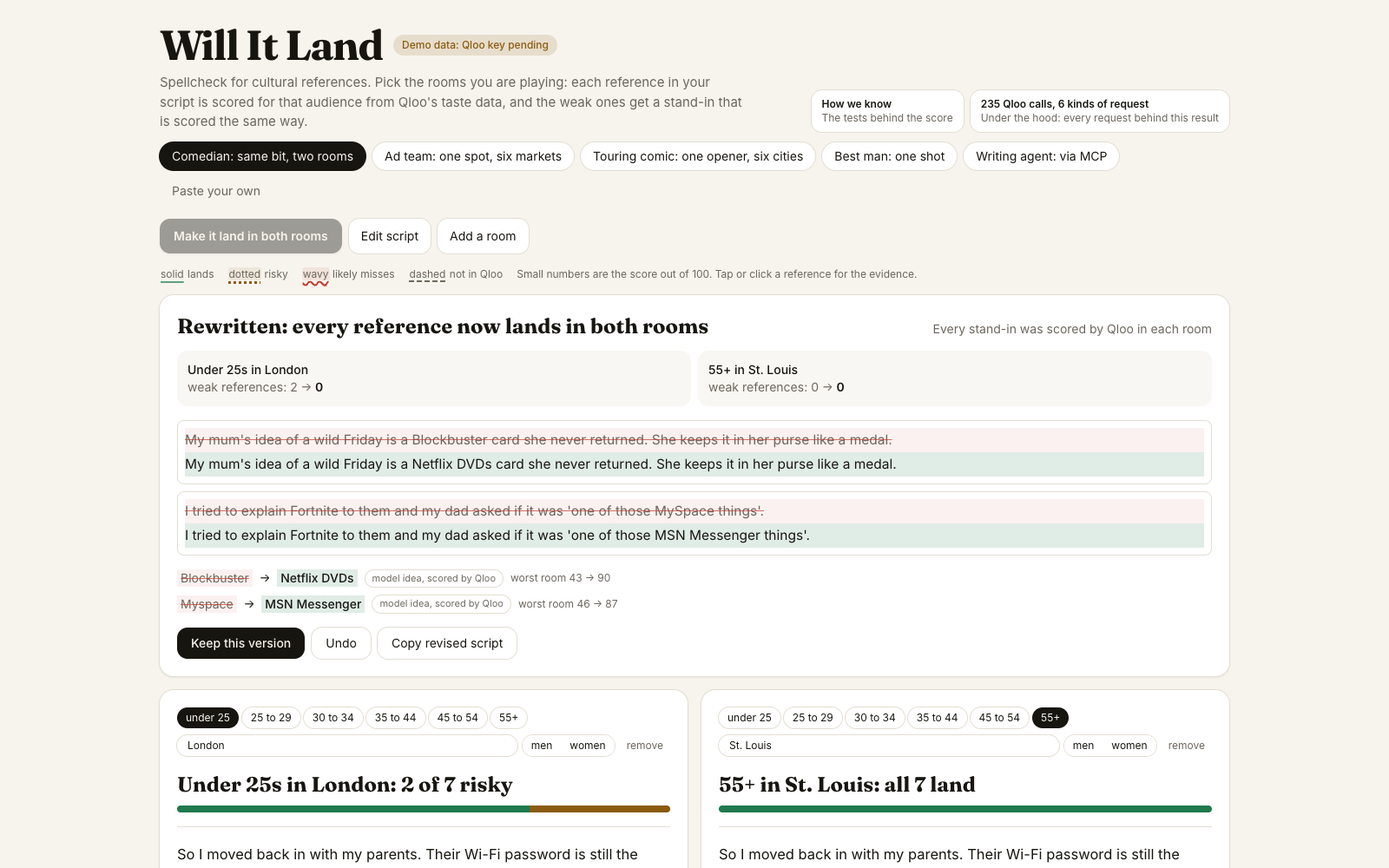
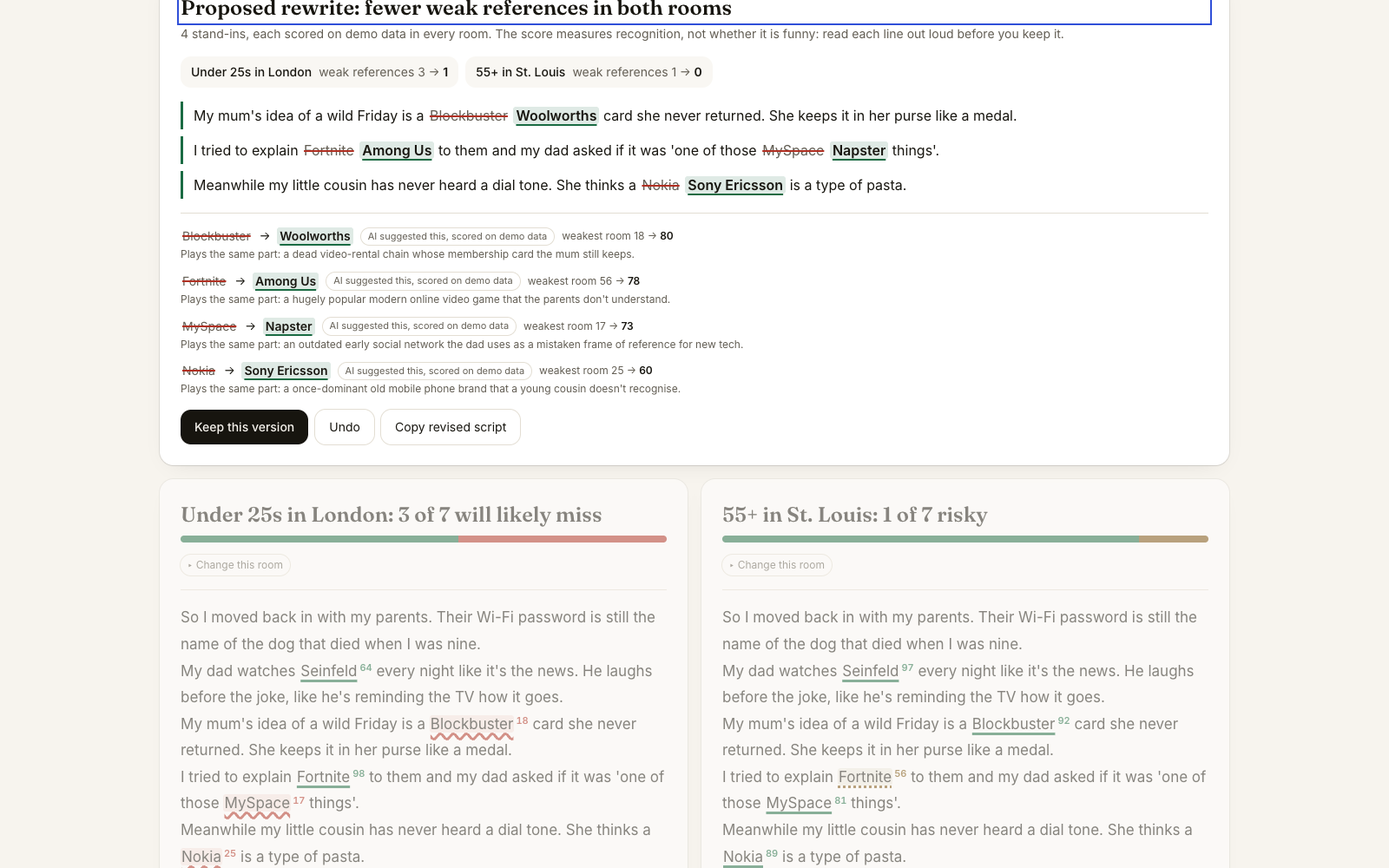
Devpost and README: status line, buyer and workflow table, request-to-result walk-through, known limitations, no overclaims; runbook og image step

Changed region(s): [[0.0938, 0.0, 0.875, 1.0], [0.6875, 0.372, 0.875, 0.403]]

diff --git a/README.md b/README.md
@@ -1,25 +1,26 @@
 # Will It Land
 
-Spellcheck for cultural references. Paste a stand-up bit, an ad script, a toast, or a speech. Pick the rooms you are playing. A room is an age band, optionally men or women, and a city or country. Will It Land scores every reference for that audience using Qloo taste data. Weak references get a stand-in. The app scores the stand-in the same way and rewrites the line.
+Spellcheck for cultural references. Paste a stand-up bit, an ad script, a toast or a speech. Pick the rooms you are playing (an age band, optionally men or women, a city or country). Will It Land scores every reference for that audience using Qloo taste data. Weak references get a stand-in, scored the same way. The app then rewrites the line.
 
-Live app: https://m-simakhov--will-it-land-web.us-east.modal.run (built for the Qloo Agentic Hackathon, October 2026). Status while the hackathon API key is pending: the live app runs on demo data and says so in its header.
+Live app: https://m-simakhov--will-it-land-web.us-east.modal.run. I built this for the Qloo Agentic Hackathon, October 2026. Status while the hackathon API key is pending: the live app runs on demo data and says so in its header.
 
 ## What it does
-- Two rooms side by side: the app marks the same script like a spellchecker for each room. Marks include a red wavy underline for likely misses, amber dotted for risky, green for lands, and grey dashed for not in Qloo. A headline per room reads like "Under 25s in London: 2 of 7 risky".
+- Two rooms side by side. The app marks the same script like a spellchecker for each room. A wavy underline means likely misses. A dotted underline means risky. A solid underline means it lands. A dashed underline means it is not in Qloo. Each room has a headline, such as "Under 25s in London: 3 of 7 will likely miss". One line names the biggest split between the rooms.
+- Four examples: a comedian's bit in two rooms, a touring comic's opener in six cities, an ad in six markets, and a best man's toast for two tables.
 - Up to six rooms as a grid. A "lands everywhere" column next to each reference takes its worst room.
-- "Make it land in both rooms" or "in every room": the agent finds stand-ins for each weak reference. It scores every candidate in every room. It picks the one whose worst room scores best and rewrites the line. The app re-scores the whole script and keeps the rewrite only if the rooms improved. Changes appear as tracked changes with a badge per stand-in. Badges say "found in Qloo's graph" or "model idea, scored by Qloo".
-- An evidence card for every mark: the card shows the score, a plain sentence, and a breakdown of the score. The breakdown covers how widely known the reference is, this age band, and this place. The card also shows the age profile from Qloo and what a language model guessed without data.
-- "Scored by: Qloo data or AI guess alone" repaints the page with the model's unaided guesses. This makes the difference visible. The app hides this button while it runs on demo data.
-- "Under the hood" lists every Qloo request behind the result.
-- An MCP server lets any writing agent check its own references before it finishes a draft.
+- "Make it land in both rooms" (or "in every room"). For each weak reference, the agent finds stand-ins. It scores every candidate in every room. It picks the one whose weakest room scores best. It rewrites the line and re-scores the whole script. It keeps the rewrite only if no room gets worse. Changes appear as word-level suggestions inside each line. These show the part each reference plays and a badge for where each stand-in came from.
+- An evidence card for every mark. This shows the score, a plain sentence, and the parts of the score. These parts are how well known it is, fit with this age band, and strength in this place. The card also shows the age profile and the same reference in every other room.
+- "Scored by: Qloo data or AI guess alone" repaints the page with the model's unaided guesses. This makes the difference visible. The app hides this option while it runs on demo data.
+- "Under the hood" lists every request behind the result. You can share any result as a link.
+- An MCP server. Any writing agent can check its own references before it finishes a draft.
 
 ## How the agent works
-1. A language model finds the cultural references in the text. It names the role each one plays in its line, for example "a dead video-rental chain".
-2. The app resolves each reference to a Qloo entity with /search. When several entities share a name, the model picks one from the line's context.
-3. Qloo's demographics insights show how much each age band and gender over-indexes or under-indexes on each entity. The /v2/trending endpoint gives the six-month direction. The app shows this direction but does not score it.
+1. A language model finds the cultural references in the text. It names the role each one plays in its line (for example "a dead video-rental chain").
+2. The agent resolves each reference to a Qloo entity with /search. When several entities share a name, the model picks one from the line's context.
+3. For each entity, Qloo demographics insights show how much each age band and gender over-indexes or under-indexes on it. The /v2/trending endpoint gives its six-month direction. The app shows this direction but does not score it.
 4. For each room, one insights call per entity type ranks the references in that place against eight fixed anchor entities. This makes the place term comparable across calls.
-5. The score combines how widely known the entity is, which is Qloo popularity, with the room's age band, gender, and place. The formula is in server/scoring.py.
-6. Stand-ins come from two sources. The first is Qloo itself. The app uses the reference's characterising tags, the room's demographics, and the place. It applies a popularity floor. The model filters the results for role fit. The second source is the model's own role-based ideas. The app resolves each idea to a real Qloo entity. The agent scores every candidate the same way as the original in the same calls.
+5. The score combines how widely known the entity is (Qloo popularity) with the room's age band, gender, and place. The formula is in server/scoring.py.
+6. Stand-ins come from two sources. The first is Qloo itself. The agent uses the reference's characterising tags, the room's demographics, and the place. It applies a popularity floor and filters the results by role fit using the model. The second source is the model's own role-based ideas. The agent resolves each idea to a real Qloo entity. It scores every candidate the same way as the original, in the same calls.
 
 ## Qloo endpoints used
 | purpose | Qloo call |
@@ -32,17 +33,26 @@ Live app: https://m-simakhov--will-it-land-web.us-east.modal.run (built for the 
 | six-month direction (display only) | /v2/trending |
 
 ## How we test it
-We fixed the method before any real data arrived and committed it in eval/PREREG.md. We publish results whatever they say.
-- Who has heard of it, by generation: YouGov Ratings publishes the share of US millennials, Gen X, and baby boomers who have heard of thousands of shows, films, artists, brands, people, and podcasts. The eval/kill_test.py script compares the Qloo grounded score with a language model's unaided guess on about 300 of them. We sampled these from the 3,428 distinct entities in eval/data/yougov_fame.csv. The script compares them overall, within each entity type, and on the millennial minus boomer gap. Result: not measured yet.
+I fixed the method before any real data arrived. I committed it in eval/PREREG.md. I publish results whatever they say.
+- Who has heard of it, by generation: YouGov Ratings publishes the share of US millennials, Gen X and baby boomers who have heard of thousands of shows, films, artists, brands, people and podcasts. The eval/kill_test.py script compares the Qloo-grounded score with a language model's unaided guess on about 300 of them. It samples these from the 3,428 distinct entities in eval/data/yougov_fame.csv. It tests them overall, within each entity type, and on the millennial-minus-boomer gap. Result: not measured yet.
 - What under-25s recognise: YouGov has no under-25 figures. The app hosts an anonymous survey at /survey. It asks for age band, city, and "have you heard of this?" for 49 items. Result: not measured yet.
-- Whether place means anything: We score 20 regional brands and shows at home and far away in eval/location_sanity.py. If place does not separate them, we drop it from the score and the place box disappears from the app. Result: not measured yet.
-- AI writing for a named audience: Claude and Gemini each wrote 18 short pieces for a named room in eval/data/ai_texts.json. We report the share of their references that miss that room only if the tests above validate the score.
+- Whether place means anything: 20 regional brands and shows scored at home and far away (eval/location_sanity.py). If place does not separate them, the app drops it from the score. The place box then disappears from the app. Result: not measured yet.
+- AI writing for a named audience: Claude and Gemini each wrote 18 short pieces for a named room (eval/data/ai_texts.json). I report the share of their references that miss that room only if the tests above validate the score.
+
+## From request to result (one reference)
+1. The model reads "My mum's idea of a wild Friday is a Blockbuster card she never returned". It returns the reference "Blockbuster", type brand, part "a dead video-rental chain".
+2. The /search endpoint with query Blockbuster and type brand returns the entity and its popularity. If several entities share the name, the model picks one from the line.
+3. The /v2/insights endpoint with urn:demographics returns the over-indexing or under-indexing of each age band.
+4. For the room "under 25, London", /v2/insights ranks the brand references in London against eight anchor brands.
+5. The score combines popularity with the age band and place terms. The evidence card shows each part.
+6. If the reference is weak in any room, the agent gathers stand-ins. It scores each one in every room the same way.
 
 ## What the score means, and what it does not
 - "Likely to land" means likely to be recognised and liked by that audience. It is an estimate for a group. It is never a statement about one person. It never claims a joke is funny.
-- Until we run the tests above, the score uses hand set starting values. These values are not calibrated against any data, and the app says so. The YouGov test covers US adults in three generations, roughly 30 and over. Our own survey covers under-25s.
-- Qloo age bands are under 25, 25 to 29, 30 to 34, 35 to 44, 45 to 54, and 55+.
-- References Qloo has no entity for, like slang, memes, or very local things, are shown as "not in Qloo" and not scored.
+- Until the tests above run, the score uses hand-set starting values. These are not calibrated against any data. The app says so. The YouGov test covers US adults in three generations (roughly 30 and over). Our own survey covers under-25s.
+- Qloo age bands are under 25, 25 to 29, 30 to 34, 35 to 44, 45 to 54 and 55+.
+- References Qloo has no entity for (slang, memes, very local things) show as "not in Qloo". The app does not score them.
+- A stand-in can be well known in every room and still break the joke. The writer decides.
 - The text goes to a language model. The model finds the references. The app sends only reference names and room settings to Qloo. It never sends the text.
 
 ## Run it
@@ -68,13 +78,13 @@ JSON config (.mcp.json and similar clients):
 Local stdio: `.venv/bin/python -m server.mcp_server`. Tools: check_references, check_matrix, localise, localise_for_all, audience_options.
 
 ## Tests
-`.venv/bin/python -m pytest -q` runs offline against a fake Qloo with injected faults like rate limits, timeouts, and empty answers. It uses a scripted model. `python -m tools.probe` checks every field the code reads from the real Qloo API.
+The command `.venv/bin/python -m pytest -q` runs offline against a fake Qloo. This fake API injects faults like rate limits, timeouts, and empty answers. It uses a scripted model. The command `python -m tools.probe` checks every field the code reads from the real Qloo API.
 
 ## Layout
-- server/: FastAPI app, Qloo client with cache and call ledger, the agent pipeline, the score model, MCP server, and Modal deployment.
-- web/: React, Vite, and Tailwind interface.
-- eval/: YouGov ground truth, benchmark, calibration, location check, split finder, survey report, and AI taste audit.
-- tools/: key-day probe, cache prewarm, screenshots, and prose rendering.
+- server/: FastAPI app, Qloo client with cache and call ledger, the agent pipeline, the score model, MCP server, Modal deployment
+- web/: React, Vite and Tailwind interface
+- eval/: YouGov ground truth, benchmark, calibration, location check, split finder, survey report, AI taste audit
+- tools/: key-day probe, cache prewarm, screenshots, prose rendering
 
 ## Licence
-MIT. The app fetches Qloo data live and caches it privately. None of this data is in this repository. YouGov figures in eval/data are public survey aggregates published on yougov.com.
+MIT. The app fetches Qloo data live and caches it privately. None of it is in this repository. YouGov figures in eval/data are public survey aggregates published on yougov.com.

diff --git a/docs/DEVPOST.md b/docs/DEVPOST.md
@@ -1,31 +1,72 @@
 # Will It Land
 
 ## Tagline
-Spellcheck for cultural references: it scores every reference in your script for the room you are playing using Qloo and swaps the weak ones.
+Spellcheck for cultural references. It shows which references in your script will land with the room you are playing. It swaps weak references for stand-ins that work in every room.
+
+## Status
+Until the hackathon Qloo key arrives, the live app runs on clearly labelled demo data. The numbers on screen are placeholders. The pipeline, the requests it makes and the interface are the real product. (Replace this paragraph with "Runs on live Qloo data" once true.)
 
 ## Inspiration
-Language models produce average references for a joke, an ad line or a wedding toast. They return the same handful of shows, artists and brands for any audience. Writers never perform for the average room. A comedian plays 22-year-olds in one city on Friday and a dinner of 55-year-olds in another on Monday. An ad team ships one script to several markets. A best man gets one audience and one shot. None of them has data on which references a specific audience actually over-indexes on. They do not know which stand-in plays the same part for that audience. Qloo has that data.
+Writers never perform for the average room. A touring comic plays 25-year-olds in Leeds on Friday and in Atlanta on Monday. An ad team ships one script into six markets. A best man speaks to two tables: his friends and the grandparents. Each of them checks references by gut, or asks a language model. Language models tend to reach for the same handful of shows, artists and brands whatever the audience. None of them has data on which references a specific audience knows and likes. They also lack data on which stand-in would play the same part for them. Qloo has that data.
 
 ## What it does
-Paste a script and pick the rooms: an age band, optionally men or women, a city or country. Will It Land marks every cultural reference like a spellchecker for each room. Red wavy lines mean likely misses. Amber dotted lines mean risky references. Green means the reference lands. The app provides a headline per room. Clicking "Make it land in both rooms" runs the agent. For each weak reference, the agent gathers stand-ins from the Qloo graph and from the model. It scores every candidate in every room with Qloo. It picks the candidate whose worst room scores best. It rewrites the line and re-scores the whole script. It keeps the rewrite only if the rooms improved. Each change shows as a tracked change with a badge indicating where the stand-in came from. Up to six rooms fit in a grid with a "lands everywhere" column. One example takes a touring comic's opener to six cities. Every mark opens an evidence card. This card shows the score, its breakdown (how widely known, this age band, this place), the age profile from Qloo and what a language model guessed without data. An "Under the hood" section lists every Qloo request behind the result. The app is also an MCP server (check_references, check_matrix, localise, localise_for_all, audience_options). A writing agent can check its own references before it finishes a draft. The script goes to the language model. Only reference names and room settings go to Qloo.
+Paste a script and pick the rooms. A room is an age band, optionally men or women, and a city or country. Will It Land marks every cultural reference like a spellchecker, separately for each room. A solid underline lands, a dotted underline is risky, a wavy underline will likely miss, and a dashed underline is not in Qloo. Each room gets a headline ("Under 25s in London: 3 of 7 will likely miss"). The page names the biggest split. This is the same reference scoring very differently in two rooms.
+
+One click, "Make it land in both rooms", runs the agent. For each weak reference, it gathers stand-ins from Qloo's taste graph and from the language model. It scores every candidate in every room. It picks the one whose weakest room scores best. It rewrites the line and re-scores the whole script. It keeps the rewrite only if no room gets worse. The result appears as document-style suggestions inside each line. It shows the part each reference plays ("a dead video-rental chain") and where each stand-in came from. It states plainly that the score measures recognition, not whether the line is funny.
+
+Up to six rooms fit in a grid with a "lands everywhere" column. Every mark opens an evidence card. The card shows the score, its parts (how well known, fit with the age band, strength in the place), the age profile, and the same reference in every other room. "Under the hood" lists every request behind a result. Any result can be shared as a link. It is also an MCP server with five tools (check_references, check_matrix, localise, localise_for_all, audience_options). A writing agent can check its own references before it finishes a draft.
+
+## Who uses it, and when
+| who | when |
+|---|---|
+| touring comic | before each date, for that city |
+| ad and localisation teams | before each market signs off a script |
+| speechwriter or best man | once, before the day |
+| a writing agent, through MCP | on every draft, automatically |
 
 ## How I built it
-The server uses Python and FastAPI. The browser uses React, Vite and Tailwind. Modal hosts the app with one warm container and a persistent cache. The agent uses Claude for language steps (finding references, naming each one's role, choosing between entities with the same name, rewriting lines). An adapter can switch the model to Gemini. The Qloo integration uses several endpoints. It uses /search to resolve names. It uses /v2/insights with demographics for age and gender affinity. It uses /v2/insights to rank each room's references in a place against eight fixed anchors. It uses /v2/insights with tags for the tags that define a reference. It uses /v2/insights with tags plus the room's demographics and place to find stand-ins the room over-indexes on. It uses /v2/trending for direction (shown, not scored). The score is a small logistic model in server/scoring.py. The MCP server uses the official Python SDK over stdio and streamable HTTP.
+The server uses Python and FastAPI. The browser uses React, Vite and Tailwind. Modal hosts the app with one warm container and a persistent cache. The language steps find references, name each one's part in the line, choose between entities with the same name, and rewrite lines. These steps use Claude through an adapter that can switch to Gemini. The value is in the data, not the model.
+
+Qloo calls:
+- /search resolves each reference to an entity and gives its popularity.
+- /v2/insights with urn:demographics gives how much each age band and gender over-indexes on it.
+- /v2/insights with filter.results.entities and signal.location.query ranks the references in each place against eight fixed anchor entities. Place scores compare across calls.
+- /v2/insights with urn:tag gives the tags that characterise a weak reference.
+- /v2/insights with those tags plus the room's age and place finds stand-ins the room over-indexes on.
+- /v2/trending gives a six-month direction. The card shows this direction, and the app never scores it.
+
+The score is a small logistic model in server/scoring.py.
+
+## From request to result (one reference)
+1. The model reads "My mum's idea of a wild Friday is a Blockbuster card she never returned". It returns the reference "Blockbuster", type brand, part "a dead video-rental chain".
+2. /search with query Blockbuster and type brand returns the entity and its popularity. If several entities share the name, the model picks one from the line.
+3. /v2/insights with urn:demographics and that entity returns the over-indexing or under-indexing of each age band.
+4. For the room "under 25, London", /v2/insights ranks the brand references in London against eight anchor brands.
+5. The score combines popularity with the age band and place terms. The evidence card shows each part.
+6. If the reference is weak in any room, the app gathers stand-ins and scores each one in every room the same way.
+Only reference names and room settings go to Qloo. The script never goes to Qloo.
 
 ## How I test it
-The test method was fixed in eval/PREREG.md before any real data arrived. It compares the Qloo-grounded score with a language model's unaided guess against outside ground truth. This ground truth includes YouGov's share of each US generation who have heard of about 300 shows, films, artists, brands, people and podcasts. It includes an anonymous survey of what under-25s recognise, because YouGov has no under-25 figures. It also includes a check that place separates 20 regional brands and shows at home and far away. Results are not measured yet. Until then, the score runs on hand-set starting values. It is not calibrated against any data, and the app states this.
+The method was fixed in eval/PREREG.md before any real data arrived. Results are published whatever they say. It compares the Qloo-grounded score with a language model's unaided guess against outside ground truth. The ground truth includes YouGov's share of each US generation who have heard of about 300 shows, films, artists, brands, people and podcasts. It includes an anonymous survey of what under-25s recognise. YouGov has no under-25 figures. It includes a check that place separates 20 regional brands and shows at home and far away. Results: not measured yet. Until then, the score runs on starting weights set by hand. The app says so.
+
+## Known limitations
+- The score is an estimate for a group, never a statement about one person. It does not judge whether a joke is funny.
+- Until the tests above run, the weights are set by hand and are not calibrated.
+- The YouGov test covers US adults in three generations, roughly 30 and over. Under-25s are covered only by the survey.
+- References Qloo has no entity for (slang, memes, very local things) are marked "not in Qloo" and not scored.
+- A stand-in can be well known in every room and still break the joke. The writer decides.
 
 ## Challenges
-Affinity is not awareness. Qloo says how much an audience over-indexes on something, not how many people have heard of it. The score combines popularity with the room's affinity and is tested against "heard of" data. Popularity is a percentile over a very large catalogue. Almost anything a writer names sits near the top. A linear score called every famous but dated reference a hit. The score uses a log transform instead. Names are ambiguous ("Friends", "Manhattan"). The agent reads the line to pick the entity and shows the alternatives. Qloo silently ignores parameters it does not accept. The client only sends documented parameters, and a probe checks every field the code reads.
+Affinity is not awareness. Qloo says how much an audience over-indexes on something, not how many people have heard of it. The score combines popularity with affinity and is tested against "heard of" data. Popularity is a percentile over a very large catalogue. Almost anything a writer names sits near the top. A linear score called every famous but dated reference a hit, so the score uses a log transform. Names are ambiguous ("Friends", "Manhattan"). The agent reads the line to pick the entity and shows the alternatives. Qloo ignores parameters it does not accept. The client sends only documented parameters, and a probe checks every field the code reads.
 
 ## Accomplishments
-The agent finds one fix that lands in every room at once, scored in every room by Qloo. The project has a public, pre-registered test plan against outside ground truth. The demo shows its own evidence. Every number traces to a Qloo request.
+One rewrite works in every room at once. Every stand-in is scored in every room. A public, pre-registered test plan runs against outside ground truth. Every request behind a result is listed in the app. The weights that combine them are set by hand until the tests run, and the app says so.
 
 ## What I learned
-Grounding is not a garnish. The interesting part of a reference check is the stand-in. Only a taste graph can say which stand-in a specific room actually loves.
+A taste graph can tell you which stand-in a specific room is more likely to know and like. A model alone cannot check this.
 
 ## What's next
-The next steps include a browser extension for documents and scripts. They include a localisation report for teams shipping one script to many markets. They also include rooms defined by Qloo audiences (for example "nurses in Chicago") instead of only age and place.
+Rooms defined by Qloo audiences (for example "nurses in Chicago") as well as age and place. A printable localisation report for teams shipping one script to many markets. A browser extension for documents and scripts.
 
 ## Built with
 python, fastapi, react, vite, tailwind, qloo, anthropic, gemini, modal, mcp

diff --git a/docs/briefs/DEVPOST.brief.md b/docs/briefs/DEVPOST.brief.md
@@ -1,31 +1,72 @@
 # Will It Land
 
 ## Tagline
-Spellcheck for cultural references: it scores every reference in your script for the room you are playing, using Qloo, and swaps the weak ones.
+Spellcheck for cultural references: it shows which references in your script will land with the room you are playing, and swaps the weak ones for stand-ins that work in every room.
+
+## Status
+Until the hackathon Qloo key arrives, the live app runs on clearly labelled demo data, so the numbers on screen are placeholders. The pipeline, the requests it makes and the interface are the real product. (Replace this paragraph with "Runs on live Qloo data" once true.)
 
 ## Inspiration
-Ask a language model for a joke, an ad line or a wedding toast and the references come out average: the same handful of shows, artists and brands, whoever the audience is. Writers never perform for the average room. A comedian plays 22-year-olds in one city on Friday and a dinner of 55-year-olds in another on Monday. An ad team ships one script to several markets. A best man gets one audience and one shot. What none of them has at their desk is data on which references a specific audience actually over-indexes on, and which stand-in would play the same part for them. Qloo has that data.
+Writers never perform for the average room. A touring comic plays 25-year-olds in Leeds on Friday and in Atlanta on Monday. An ad team ships one script into six markets. A best man speaks to two tables: his friends and the grandparents. Each of them checks references by gut, or asks a language model, and language models tend to reach for the same handful of shows, artists and brands whatever the audience. What none of them has is data on which references a specific audience knows and likes, and which stand-in would play the same part for them. Qloo has that data.
 
 ## What it does
-Paste a script and pick the rooms: an age band, optionally men or women, a city or country. Will It Land marks every cultural reference like a spellchecker for each room (red wavy: likely misses, amber dotted: risky, green: lands) with a headline per room. One click, "Make it land in both rooms", runs the agent: for each weak reference it gathers stand-ins from Qloo's graph and from the model, scores every candidate in every room with Qloo, picks the one whose worst room scores best, rewrites the line, re-scores the whole script, and keeps the rewrite only if the rooms improved. Each change shows as a tracked change with a badge saying where the stand-in came from. Up to six rooms fit in a grid with a "lands everywhere" column; one example takes a touring comic's opener to six cities. Every mark opens an evidence card: the score, its breakdown (how widely known, this age band, this place), the age profile from Qloo, and what a language model guessed without data. "Under the hood" lists every Qloo request behind the result. It is also an MCP server (check_references, check_matrix, localise, localise_for_all, audience_options), so a writing agent can check its own references before it finishes a draft. The script goes to the language model; only reference names and room settings go to Qloo.
+Paste a script and pick the rooms: an age band, optionally men or women, a city or country. Will It Land marks every cultural reference like a spellchecker, separately for each room: a solid underline lands, dotted is risky, wavy will likely miss, dashed is not in Qloo. Each room gets a headline ("Under 25s in London: 3 of 7 will likely miss") and the page names the biggest split: the same reference scoring very differently in two rooms.
+
+One click, "Make it land in both rooms", runs the agent. For each weak reference it gathers stand-ins from Qloo's taste graph and from the language model, scores every candidate in every room, picks the one whose weakest room scores best, rewrites the line and re-scores the whole script. It keeps the rewrite only if no room gets worse. The result appears as document-style suggestions inside each line, with the part each reference plays ("a dead video-rental chain") and where each stand-in came from. It says plainly that the score measures recognition, not whether the line is funny.
+
+Up to six rooms fit in a grid with a "lands everywhere" column. Every mark opens an evidence card: the score, its parts (how well known, fit with the age band, strength in the place), the age profile, and the same reference in every other room. "Under the hood" lists every request behind a result. Any result can be shared as a link. It is also an MCP server with five tools (check_references, check_matrix, localise, localise_for_all, audience_options), so a writing agent can check its own references before it finishes a draft.
+
+## Who uses it, and when
+| who | when |
+|---|---|
+| touring comic | before each date, for that city |
+| ad and localisation teams | before each market signs off a script |
+| speechwriter or best man | once, before the day |
+| a writing agent, through MCP | on every draft, automatically |
 
 ## How I built it
-Python and FastAPI on the server, React, Vite and Tailwind in the browser, hosted on Modal with one warm container and a persistent cache. The agent's language steps (finding references, naming each one's role, choosing between entities with the same name, rewriting lines) use Claude through an adapter that can switch to Gemini, because the moat is the data, not the model. The Qloo side: /search to resolve names, /v2/insights with demographics for age and gender affinity, /v2/insights ranking each room's references in a place against eight fixed anchors, /v2/insights with tags for the tags that define a reference, /v2/insights with tags plus the room's demographics and place to find stand-ins the room over-indexes on, and /v2/trending for direction (shown, not scored). The score is a small logistic model in server/scoring.py. The MCP server uses the official Python SDK over stdio and streamable HTTP.
+Python and FastAPI on the server, React, Vite and Tailwind in the browser, hosted on Modal with one warm container and a persistent cache. The language steps (finding references, naming each one's part in the line, choosing between entities with the same name, rewriting lines) use Claude through an adapter that can switch to Gemini, because the value is in the data, not the model.
+
+Qloo calls:
+- /search resolves each reference to an entity and gives its popularity.
+- /v2/insights with urn:demographics gives how much each age band and gender over-indexes on it.
+- /v2/insights with filter.results.entities and signal.location.query ranks the references in each place against eight fixed anchor entities, so place scores compare across calls.
+- /v2/insights with urn:tag gives the tags that characterise a weak reference.
+- /v2/insights with those tags plus the room's age and place finds stand-ins the room over-indexes on.
+- /v2/trending gives a six-month direction, shown on the card and never scored.
+
+The score is a small logistic model in server/scoring.py.
+
+## From request to result (one reference)
+1. The model reads "My mum's idea of a wild Friday is a Blockbuster card she never returned" and returns the reference "Blockbuster", type brand, part "a dead video-rental chain".
+2. /search with query Blockbuster and type brand returns the entity and its popularity; if several entities share the name, the model picks one from the line.
+3. /v2/insights with urn:demographics and that entity returns the over- or under-indexing of each age band.
+4. For the room "under 25, London", /v2/insights ranks the brand references in London against eight anchor brands.
+5. The score combines popularity with the age band and place terms; the evidence card shows each part.
+6. If the reference is weak in any room, stand-ins are gathered and each is scored in every room the same way.
+Only reference names and room settings are sent to Qloo, never the script.
 
 ## How I test it
-I did not want to assert that Qloo makes the difference, so the method was fixed in eval/PREREG.md before any real data arrived. It compares the Qloo-grounded score with a language model's unaided guess against outside ground truth: YouGov's share of each US generation who have heard of about 300 shows, films, artists, brands, people and podcasts; an anonymous survey of what under-25s recognise (YouGov has no under-25 figures); and a check that place separates 20 regional brands and shows at home and far away. Results: not measured yet. Until then the score runs on hand-set starting values, not calibrated against any data, and the app says so.
+The method was fixed in eval/PREREG.md before any real data arrived, and results are published whatever they say. It compares the Qloo-grounded score with a language model's unaided guess against outside ground truth: YouGov's share of each US generation who have heard of about 300 shows, films, artists, brands, people and podcasts; an anonymous survey of what under-25s recognise (YouGov has no under-25 figures); and a check that place separates 20 regional brands and shows at home and far away. Results: not measured yet. Until then the score runs on starting weights set by hand, and the app says so.
+
+## Known limitations
+- The score is an estimate for a group, never a statement about one person, and it does not judge whether a joke is funny.
+- Until the tests above run, the weights are set by hand and are not calibrated.
+- The YouGov test covers US adults in three generations, roughly 30 and over; under-25s are covered only by the survey.
+- References Qloo has no entity for (slang, memes, very local things) are marked "not in Qloo" and not scored.
+- A stand-in can be well known in every room and still break the joke; the writer decides.
 
 ## Challenges
-Affinity is not awareness: Qloo says how much an audience over-indexes on something, not how many people have heard of it, so the score combines popularity with the room's affinity and is tested against "heard of" data. Popularity is a percentile over a very large catalogue, so almost anything a writer names sits near the top, and a linear score called every famous but dated reference a hit; the score uses a log transform instead. Names are ambiguous ("Friends", "Manhattan"), so the agent reads the line to pick the entity and shows the alternatives. Qloo silently ignores parameters it does not accept, so the client only sends documented ones and a probe checks every field the code reads.
+Affinity is not awareness: Qloo says how much an audience over-indexes on something, not how many people have heard of it, so the score combines popularity with affinity and is tested against "heard of" data. Popularity is a percentile over a very large catalogue, so almost anything a writer names sits near the top; a linear score called every famous but dated reference a hit, so the score uses a log transform. Names are ambiguous ("Friends", "Manhattan"), so the agent reads the line to pick the entity and shows the alternatives. Qloo ignores parameters it does not accept, so the client sends only documented ones and a probe checks every field the code reads.
 
 ## Accomplishments
-One fix that lands in every room at once, scored in every room by Qloo. A public, pre-registered test plan against outside ground truth. A demo that shows its own evidence: every number traces to a Qloo request.
+One rewrite that works in every room at once, with every stand-in scored in every room. A public, pre-registered test plan against outside ground truth. Every request behind a result is listed in the app; the weights that combine them are set by hand until the tests run, and the app says so.
 
 ## What I learned
-Grounding is not a garnish. The interesting part of a reference check is the stand-in, and only a taste graph can say which stand-in a specific room actually loves.
+A taste graph can tell you which stand-in a specific room is more likely to know and like, which a model alone cannot check.
 
 ## What's next
-A browser extension for documents and scripts, a localisation report for teams shipping one script to many markets, and rooms defined by Qloo audiences (for example "nurses in Chicago") instead of only age and place.
+Rooms defined by Qloo audiences (for example "nurses in Chicago") as well as age and place, a printable localisation report for teams shipping one script to many markets, and a browser extension for documents and scripts.
 
 ## Built with
 python, fastapi, react, vite, tailwind, qloo, anthropic, gemini, modal, mcp

diff --git a/docs/briefs/README.brief.md b/docs/briefs/README.brief.md
@@ -5,12 +5,13 @@ Spellcheck for cultural references. Paste a stand-up bit, an ad script, a toast 
 Live app: https://m-simakhov--will-it-land-web.us-east.modal.run (built for the Qloo Agentic Hackathon, October 2026). Status while the hackathon API key is pending: the live app runs on demo data and says so in its header.
 
 ## What it does
-- Two rooms side by side: the same script, marked like a spellchecker for each room (red wavy underline: likely misses; amber dotted: risky; green: lands; grey dashed: not in Qloo), with a headline per room such as "Under 25s in London: 2 of 7 risky".
+- Two rooms side by side: the same script, marked like a spellchecker for each room (wavy underline: likely misses; dotted: risky; solid: lands; dashed: not in Qloo), with a headline per room such as "Under 25s in London: 3 of 7 will likely miss", and one line naming the biggest split between the rooms.
+- Four examples: a comedian's bit in two rooms, a touring comic's opener in six cities, an ad in six markets, and a best man's toast for two tables.
 - Up to six rooms as a grid, with a "lands everywhere" column next to each reference that takes its worst room.
-- "Make it land in both rooms" (or "in every room"): for each weak reference the agent finds stand-ins, scores every candidate in every room, picks the one whose worst room scores best, rewrites the line, re-scores the whole script and keeps the rewrite only if the rooms improved. Changes appear as tracked changes with a badge per stand-in: "found in Qloo's graph" or "model idea, scored by Qloo".
-- An evidence card for every mark: the score, a plain sentence, a breakdown of the score (how widely known, this age band, this place), the age profile from Qloo, and what a language model guessed without data.
+- "Make it land in both rooms" (or "in every room"): for each weak reference the agent finds stand-ins, scores every candidate in every room, picks the one whose weakest room scores best, rewrites the line, re-scores the whole script and keeps the rewrite only if no room gets worse. Changes appear as word-level suggestions inside each line, with the part each reference plays and a badge for where each stand-in came from.
+- An evidence card for every mark: the score, a plain sentence, the parts of the score (how well known, fit with this age band, strength in this place), the age profile, and the same reference in every other room.
 - "Scored by: Qloo data or AI guess alone" repaints the page with the model's unaided guesses, so the difference is visible. It is hidden while the app runs on demo data.
-- "Under the hood" lists every Qloo request behind the result.
+- "Under the hood" lists every request behind the result. Any result can be shared as a link.
 - An MCP server, so any writing agent can check its own references before it finishes a draft.
 
 ## How the agent works
@@ -38,11 +39,20 @@ The method was fixed before any real data arrived and committed in eval/PREREG.m
 - Whether place means anything: 20 regional brands and shows scored at home and far away (eval/location_sanity.py). If place does not separate them, it is dropped from the score and the place box disappears from the app. Result: not measured yet.
 - AI writing for a named audience: Claude and Gemini each wrote 18 short pieces for a named room (eval/data/ai_texts.json). The share of their references that miss that room is reported only if the tests above validate the score.
 
+## From request to result (one reference)
+1. The model reads "My mum's idea of a wild Friday is a Blockbuster card she never returned" and returns the reference "Blockbuster", type brand, part "a dead video-rental chain".
+2. /search with query Blockbuster and type brand returns the entity and its popularity; if several entities share the name, the model picks one from the line.
+3. /v2/insights with urn:demographics returns the over- or under-indexing of each age band.
+4. For the room "under 25, London", /v2/insights ranks the brand references in London against eight anchor brands.
+5. The score combines popularity with the age band and place terms; the evidence card shows each part.
+6. If the reference is weak in any room, stand-ins are gathered and each is scored in every room the same way.
+
 ## What the score means, and what it does not
 - "Likely to land" means likely to be recognised and liked by that audience. It is an estimate for a group, never a statement about one person, and it never claims a joke is funny.
 - Until the tests above are run, the score uses hand-set starting values, not calibrated against any data, and the app says so. The YouGov test covers US adults in three generations (roughly 30 and over); under-25s are covered only by our own survey.
 - Qloo age bands are under 25, 25 to 29, 30 to 34, 35 to 44, 45 to 54 and 55+.
 - References Qloo has no entity for (slang, memes, very local things) are shown as "not in Qloo" and not scored.
+- A stand-in can be well known in every room and still break the joke; the writer decides.
 - The text goes to a language model, which finds the references. Only reference names and room settings are sent to Qloo, never the text.
 
 ## Run it

diff --git a/docs/RUNBOOK.md b/docs/RUNBOOK.md
@@ -16,9 +16,11 @@ Deadline: Fri 30 Oct 2026, 23:45 EDT (03:45 Sat UK time). After the deadline the
 | 7 | 7:15 | tune `STANDIN_MIN_POP` (env, default 0.99) so a Qloo-found stand-in beats the original for at least half the weak references in the examples | applied-swap Qloo share measured |
 | 8 | 7:45 | redeploy, then `.venv/bin/python -m tools.prewarm --base https://m-simakhov--will-it-land-web.us-east.modal.run` (background, ~10 min) | prewarm log all 200 |
 | 9 | 8:00 | `.venv/bin/python -m eval.taste_audit run` (background) and `eval/freshness.py` if the probe showed trending works | numbers saved in `eval/out/` |
-| 10 | 8:30 | `.venv/bin/python -m tools.screenshots --base <live url>` | 6 gallery images + 1 mobile in `docs/screenshots/` |
+| 10 | 8:30 | `.venv/bin/python -m tools.screenshots --base <live url>`; then edit `tools/og/og.html` (real reference, real scores, stamp "Live Qloo data"), serve it locally and screenshot it at 1200x630 into `web/public/og.png` | 8 gallery images in `docs/screenshots/`, og.png shows real numbers |
 | 11 | 9:00 | Public text: write the factual brief, render with `tools/prose.py` (Gemini, via `eval/gemini_remote.py` if the API refuses this location), check every number against `eval/out/`, no claims about trend in the score, location only if k_loc > 0 | README and docs/DEVPOST.md updated, `tests/test_text.py` green |
 | 12 | 10:00 | Devpost: fill the draft (#1248003), upload images, links (live URL, repo), submit | Devpost shows "Submitted" |
+
+Note: the demo examples were tuned against the mock (server/mock.py) so the demo shows splits; step 6 must re-check every example against live data and change any text whose split does not hold. Never keep a line for a split the live data does not show.
 
 ## Friday minimum path (about 5 hours)
 1 probe and fix, 2 deploy, 3 kill test at `--n 120` and fit (no refit loop), 6 split finder on the existing examples only, 8 prewarm, 10 screenshots, 11 text with the numbers that exist, 12 submit before 20:00 EDT.
